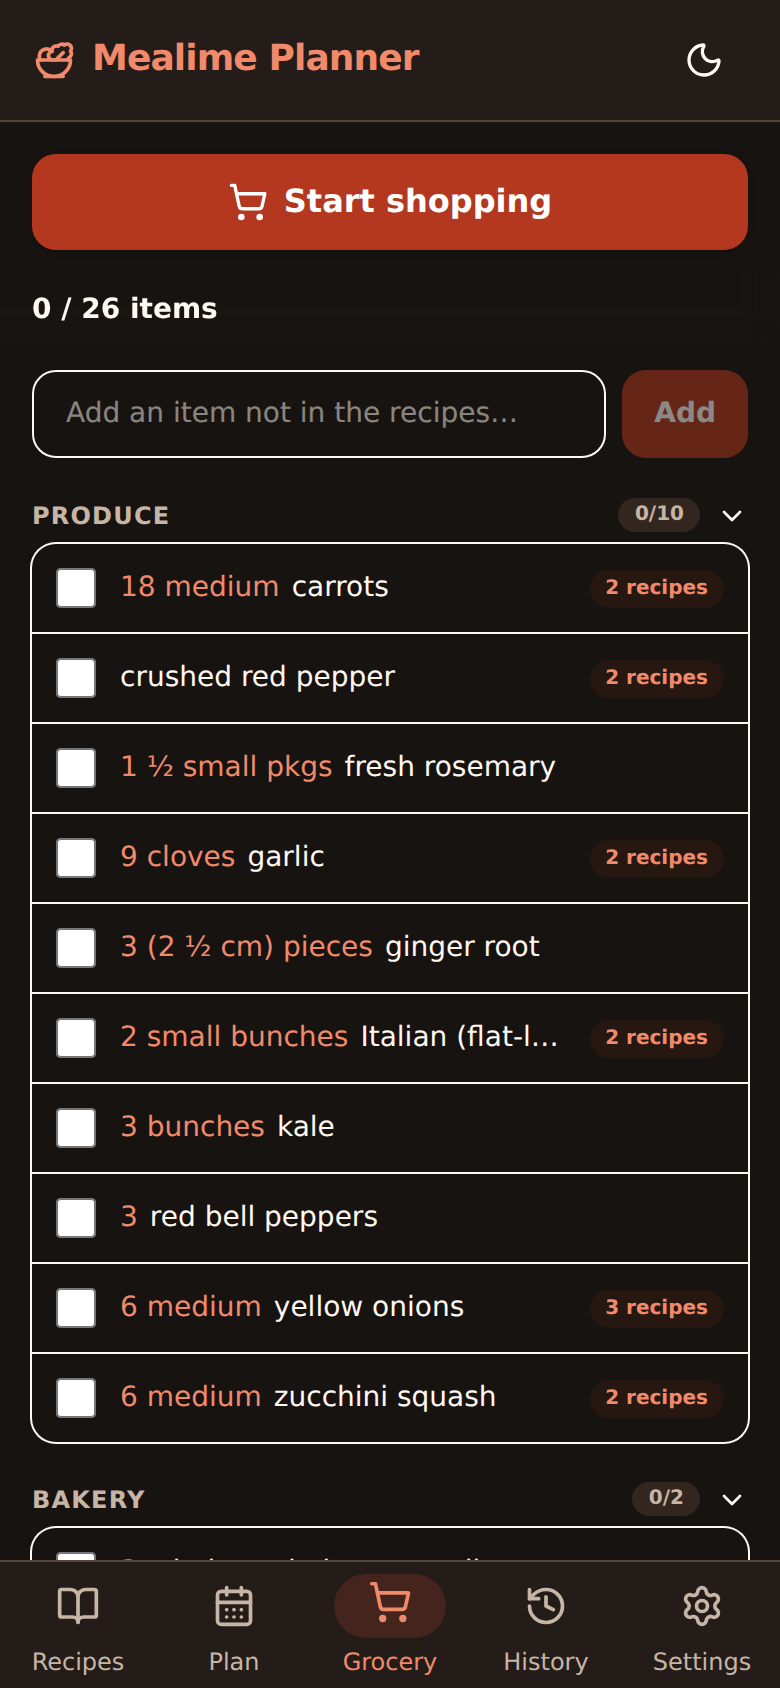
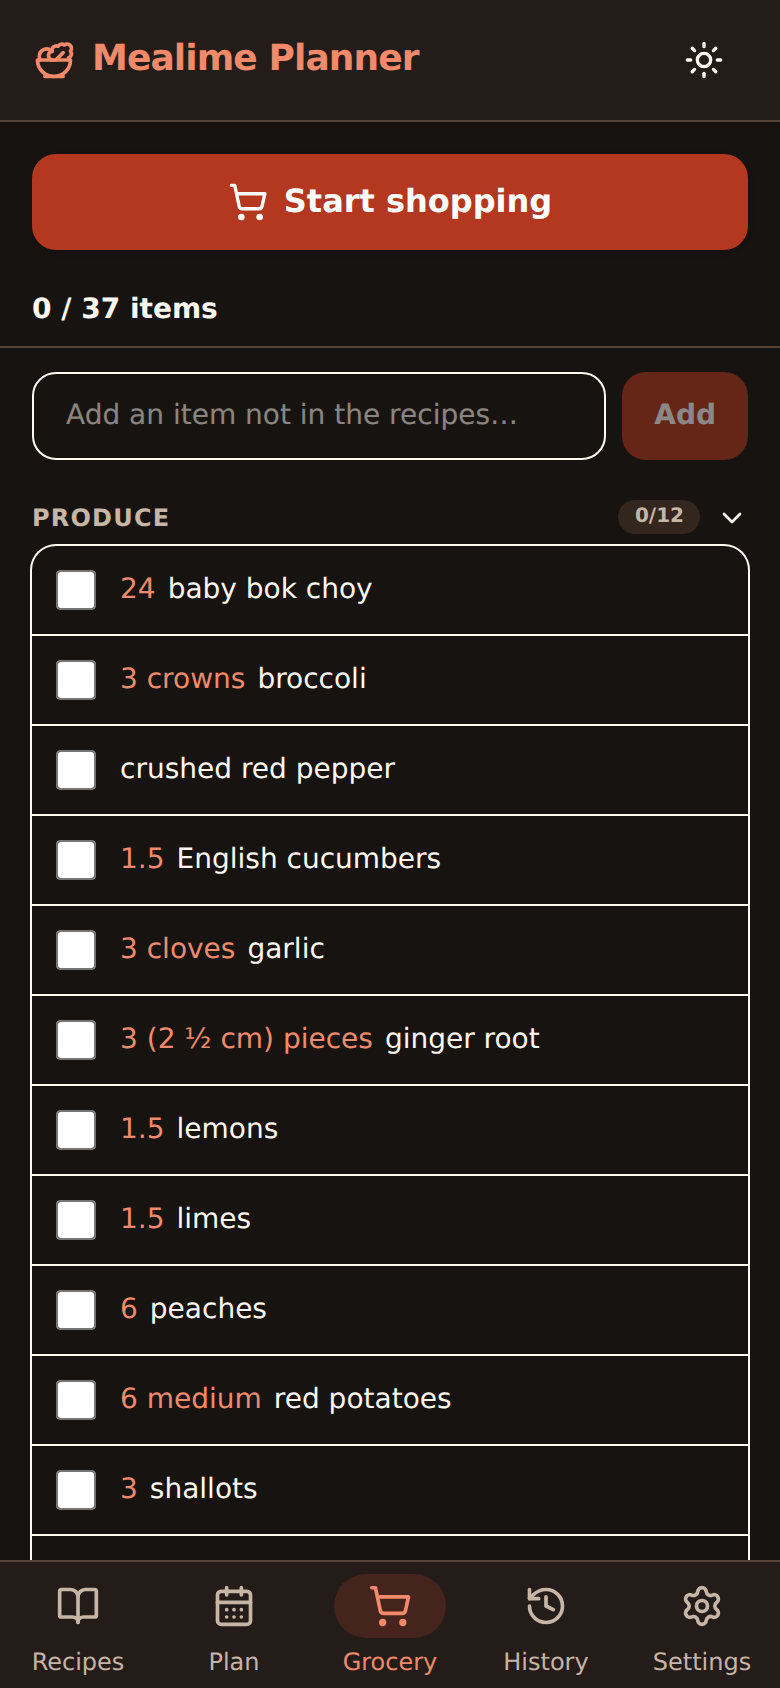
fix(design): fixed-foreground photo controls, status separation, visible skeletons
Copilot round 2 on the rethink head:
- Fixed espresso surfaces (toast, card/detail photo discs, PRO badges)
  pair with the FIXED cream foregrounds (text-text-dark[-muted] /
  on-brand) instead of the theme-flipping text-text, which resolved to
  1.22:1 in light mode.
- Status is not food identity: room chip 'live' and the household sync
  status keep the primary foreground; amber stays failure-only.
- RatingStars filled overlay uses the theme-flipping text-warning
  (strong amber in light, soft in dark) instead of hard-coded soft.
- Favourites-only chip: rose identity moves to the heart glyph
  (>=3:1 on the tint both themes), label text stays primary;
  --color-favourite now flips to its soft value in .dark like
  warning/danger.
- Skeleton rows (grocery, shop, cooking) gain a surface-sunken fill so
  animate-pulse is visible; grocery sticky toolbar and shop header are
  solid theme surfaces with real borders (no translucent control
  surfaces, no invalid border-b/95 or backdrop-blur/95).
- Error panels use text-danger + a brand Retry, not the favourite rose.
- Card facts row wraps at the 360px two-column width.
- grocery docs screenshots re-captured on the fixed build.

diff --git a/src/components/GroceryTab.vue b/src/components/GroceryTab.vue
@@ -122,14 +122,14 @@ function customCategory(item: string): string | undefined {
 
   <template v-else-if="loading && items.length === 0">
   <div class="space-y-2" aria-busy="true">
-  <div v-for="i in 6" :key="i" class="h-10 animate-pulse rounded-lg" />
+  <div v-for="i in 6" :key="i" class="h-10 animate-pulse rounded-lg bg-surface-sunken" />
   </div>
   </template>
 
-  <div v-else-if="loadError" class="rounded-xl bg-surface p-4 text-center text-sm text-favourite-soft">
+  <div v-else-if="loadError" class="rounded-xl bg-surface p-4 text-center text-sm text-danger">
   <p class="font-medium">Couldn't build the grocery list</p>
   <p class="mt-1 text-xs">{{ loadError }}</p>
-  <button class="mt-2 rounded-lg bg-favourite px-3 py-1.5 text-on-brand" @click="ensureDocs">Retry</button>
+  <button class="mt-2 rounded-lg bg-brand px-3 py-1.5 text-on-brand" @click="ensureDocs">Retry</button>
   </div>
 
   <template v-else>
@@ -154,8 +154,11 @@ function customCategory(item: string): string | undefined {
   Start shopping
   </button>
 
+  <!-- Solid surface, real border: DESIGN.md bans translucent control
+  surfaces, and without a fill the rows scrolled behind this toolbar
+  showed straight through the progress text. -->
   <div
-  class="sticky top-12 z-10 -mx-4 flex items-center justify-between border-b/95 px-4 py-2 backdrop-blur"
+  class="sticky top-12 z-10 -mx-4 flex items-center justify-between border-b border-border bg-surface px-4 py-2"
   >
   <p class="text-sm font-semibold" aria-live="polite">
   {{ checkedCount }} / {{ totalCount }} items

diff --git a/src/components/RecipeCard.vue b/src/components/RecipeCard.vue
@@ -46,7 +46,7 @@ const isFavourite = computed(() => favourites.isFavourite(props.meta.id))
   nested inside the link, it stops propagation, and it carries its
   own 44px hit area (DESIGN.md Components/Selection). -->
   <button
-  class="absolute top-2 right-2 z-10 flex size-11 items-center justify-center rounded-full bg-surface-dark"
+  class="absolute top-2 right-2 z-10 flex size-11 items-center justify-center rounded-full bg-surface-dark text-text-dark"
   :aria-label="isFavourite ? 'Remove from favourites' : 'Add to favourites'"
   :aria-pressed="isFavourite"
   @click.stop="favourites.toggleFavourite(meta.id)"
@@ -54,7 +54,7 @@ const isFavourite = computed(() => favourites.isFavourite(props.meta.id))
   <Heart
   :size="20"
   :fill="isFavourite ? 'currentColor' : 'none'"
-  :class="isFavourite ? 'text-favourite-soft' : 'text-text'"
+  :class="isFavourite ? 'text-favourite-soft' : 'text-text-dark'"
   aria-hidden="true"
   />
   </button>
@@ -79,7 +79,7 @@ const isFavourite = computed(() => favourites.isFavourite(props.meta.id))
   absent — it belongs to the recipe's nutrition detail, not to a
   glanceable browse tile. The type icon carries its own name
   (role="img") and the category word is NOT printed beside it. -->
-  <p class="mt-1.5 flex items-center gap-3 text-label-md text-text-muted">
+  <p class="mt-1.5 flex flex-wrap items-center gap-x-3 gap-y-0.5 text-label-md text-text-muted">
   <span v-if="typeRole" class="flex items-center">
   <HueIcon :role="typeRole" :size="16" :label="ICON_ROLES[typeRole].label" />
   </span>

diff --git a/src/components/ShopView.vue b/src/components/ShopView.vue
@@ -108,7 +108,7 @@ function exitShopping() {
   <div class="flex min-h-dvh flex-col">
   <!-- Sticky progress bar -->
   <div
-  class="sticky top-0 z-20 border-b border-border bg-surface-raised/95 backdrop-blur/95"
+  class="sticky top-0 z-20 border-b border-border bg-surface-raised"
   >
   <div class="mx-auto flex max-w-app items-center gap-3 px-4 py-3">
   <button
@@ -148,16 +148,16 @@ function exitShopping() {
 
   <main class="mx-auto w-full max-w-app flex-1 px-4 pb-24 pt-4">
   <div v-if="loading && totalCount === 0" class="space-y-2" aria-busy="true">
-  <div v-for="i in 6" :key="i" class="h-12 animate-pulse rounded-lg" />
+  <div v-for="i in 6" :key="i" class="h-12 animate-pulse rounded-lg bg-surface-sunken" />
   </div>
 
   <div
   v-else-if="loadError"
-  class="rounded-xl bg-surface p-4 text-center text-sm text-favourite-soft"
+  class="rounded-xl bg-surface p-4 text-center text-sm text-danger"
   >
   <p class="font-medium">Couldn't build the grocery list</p>
   <p class="mt-1 text-xs">{{ loadError }}</p>
-  <button class="mt-2 rounded-lg bg-favourite px-3 py-1.5 text-on-brand" @click="ensureDocs">
+  <button class="mt-2 rounded-lg bg-brand px-3 py-1.5 text-on-brand" @click="ensureDocs">
   Retry
   </button>
   </div>

diff --git a/src/App.vue b/src/App.vue
@@ -55,7 +55,10 @@ const ROOM_STATUS_ICONS: Record<RoomStatus, Component> = {
   idle: TriangleAlert,
 }
 const ROOM_STATUS_CLS: Record<RoomStatus, string> = {
-  live: 'text-hue-vegetarian',
+  // Status is NOT food identity (DESIGN.md): a live room keeps the calm
+  // primary foreground and relies on the glyph (CircleDot) + the "Live"
+  // label for its signal; amber is reserved for the failure states.
+  live: 'text-text',
   connecting: 'text-text-muted',
   error: 'text-warning',
   idle: 'text-warning',
@@ -241,7 +244,7 @@ onMounted(async () => {
   v-for="(action, i) in ui.toast.actions ?? []"
   :key="action.label"
   class="rounded-full px-3 py-1 text-xs font-bold uppercase tracking-wide"
-  :class="i === 0 ? 'bg-brand text-on-brand' : 'text-text hover:text-on-brand'"
+  :class="i === 0 ? 'bg-brand text-on-brand' : 'text-text-dark-muted hover:text-on-brand'"
   :data-test="action.testId ?? (i === 0 ? 'toast-action-primary' : 'toast-action-secondary')"
   @click="action.run()"
   >

diff --git a/src/components/RecipeDetail.vue b/src/components/RecipeDetail.vue
@@ -174,7 +174,7 @@ function startCooking() {
   <!-- Solid espresso discs over the photo (DESIGN.md Elevation):
   the contrast never depends on the photograph's brightness. -->
   <button
-  class="absolute top-3 left-3 flex size-11 items-center justify-center rounded-full bg-surface-dark text-text shadow"
+  class="absolute top-3 left-3 flex size-11 items-center justify-center rounded-full bg-surface-dark text-text-dark shadow"
   aria-label="Back"
   @click="close"
   >
@@ -190,7 +190,7 @@ function startCooking() {
   :size="22"
   aria-hidden="true"
   :fill="favourites.isFavourite(meta.id) ? 'currentColor' : 'none'"
-  :class="favourites.isFavourite(meta.id) ? 'text-favourite-soft' : 'text-text'"
+  :class="favourites.isFavourite(meta.id) ? 'text-favourite-soft' : 'text-text-dark'"
   />
   </button>
   </figure>

diff --git a/src/components/RecipesTab.vue b/src/components/RecipesTab.vue
@@ -323,13 +323,18 @@ onUnmounted(() => observer?.disconnect())
 
   <button
   class="flex h-11 items-center justify-center gap-1.5 rounded-lg border px-3 text-sm font-medium transition-colors"
-  :class="filters.favOnly ? 'border-favourite bg-brand-tint text-favourite-soft' : ''"
+  :class="filters.favOnly ? 'border-favourite bg-brand-tint text-text' : ''"
   :aria-pressed="filters.favOnly"
   aria-label="Favourites only"
   data-test="favourites-filter"
   @click="patchFilters({ favOnly: !filters.favOnly })"
   >
-  <Heart :size="16" :fill="filters.favOnly ? 'currentColor' : 'none'" aria-hidden="true" />
+  <Heart
+  :size="16"
+  :fill="filters.favOnly ? 'currentColor' : 'none'"
+  :class="filters.favOnly ? 'text-favourite' : ''"
+  aria-hidden="true"
+  />
   <span class="truncate">Favourites</span>
   </button>
 

diff --git a/src/components/PlanTab.vue b/src/components/PlanTab.vue
@@ -522,7 +522,7 @@ function confirmAutoPlan() {
   Share…
   </button>
   </div>
-  <p v-if="shareUrl === null" class="text-xs text-warning text-warning-soft">
+  <p v-if="shareUrl === null" class="text-xs text-warning">
   Plan too large for a one-time link — share it live instead.
   </p>
 
@@ -738,7 +738,7 @@ function confirmAutoPlan() {
   <template v-if="plan.plan.length > 0">({{ plan.plan.length }} meals)</template>.
   </template>
   </p>
-  <p v-if="!previewComplete" class="text-xs text-warning text-warning-soft">
+  <p v-if="!previewComplete" class="text-xs text-warning">
   Showing {{ pendingMeals.length }} of {{ pendingPlan.variantIds.length }} meals — the rest are still
   loading, so this plan cannot be confirmed yet.
   </p>

diff --git a/src/components/CookingView.vue b/src/components/CookingView.vue
@@ -453,8 +453,8 @@ function onTouchEnd(e: TouchEvent) {
   @touchend.passive="onTouchEnd"
   >
   <div v-if="!doc" class="mx-auto max-w-reading space-y-3" aria-busy="true">
-  <div class="h-10 w-3/4 animate-pulse rounded" />
-  <div class="h-6 w-1/2 animate-pulse rounded" />
+  <div class="h-10 w-3/4 animate-pulse rounded bg-surface-sunken" />
+  <div class="h-6 w-1/2 animate-pulse rounded bg-surface-sunken" />
   </div>
 
   <div

diff --git a/src/components/RatingStars.vue b/src/components/RatingStars.vue
@@ -79,7 +79,7 @@ function rate(value: number) {
   <!-- The filled portion is a clipped overlay, so a half star reads
   as a half star without shipping half-star glyphs. -->
   <span
-  class="pointer-events-none absolute inset-0 overflow-hidden text-warning-soft"
+  class="pointer-events-none absolute inset-0 overflow-hidden text-warning"
   :style="{ width: `${fillPercent(slot.n)}%` }"
   aria-hidden="true"
   >

diff --git a/src/style.css b/src/style.css
@@ -166,6 +166,7 @@
   --color-nutrition-sodium: var(--color-nutrition-sodium-soft, #a5b4fc);
   --color-warning: var(--color-warning-soft, #fdba74);
   --color-danger: var(--color-danger-soft, #fca5a5);
+  --color-favourite: var(--color-favourite-soft);
 
   /* Selected surfaces: DESIGN.md pairs `primary-tint` in light with the
      deliberately darker `primary-tint-dark` in dark, because a cream

diff --git a/src/components/SettingsTab.vue b/src/components/SettingsTab.vue
@@ -204,7 +204,7 @@ function cancelBackupImport(): void {
   </p>
   <p
   v-if="householdCode"
-  class="text-xs font-semibold text-hue-vegetarian text-hue-vegetarian"
+  class="text-xs font-semibold text-text"
   data-test="household-room-status"
   >
   Household sync active — {{ householdCode }}
